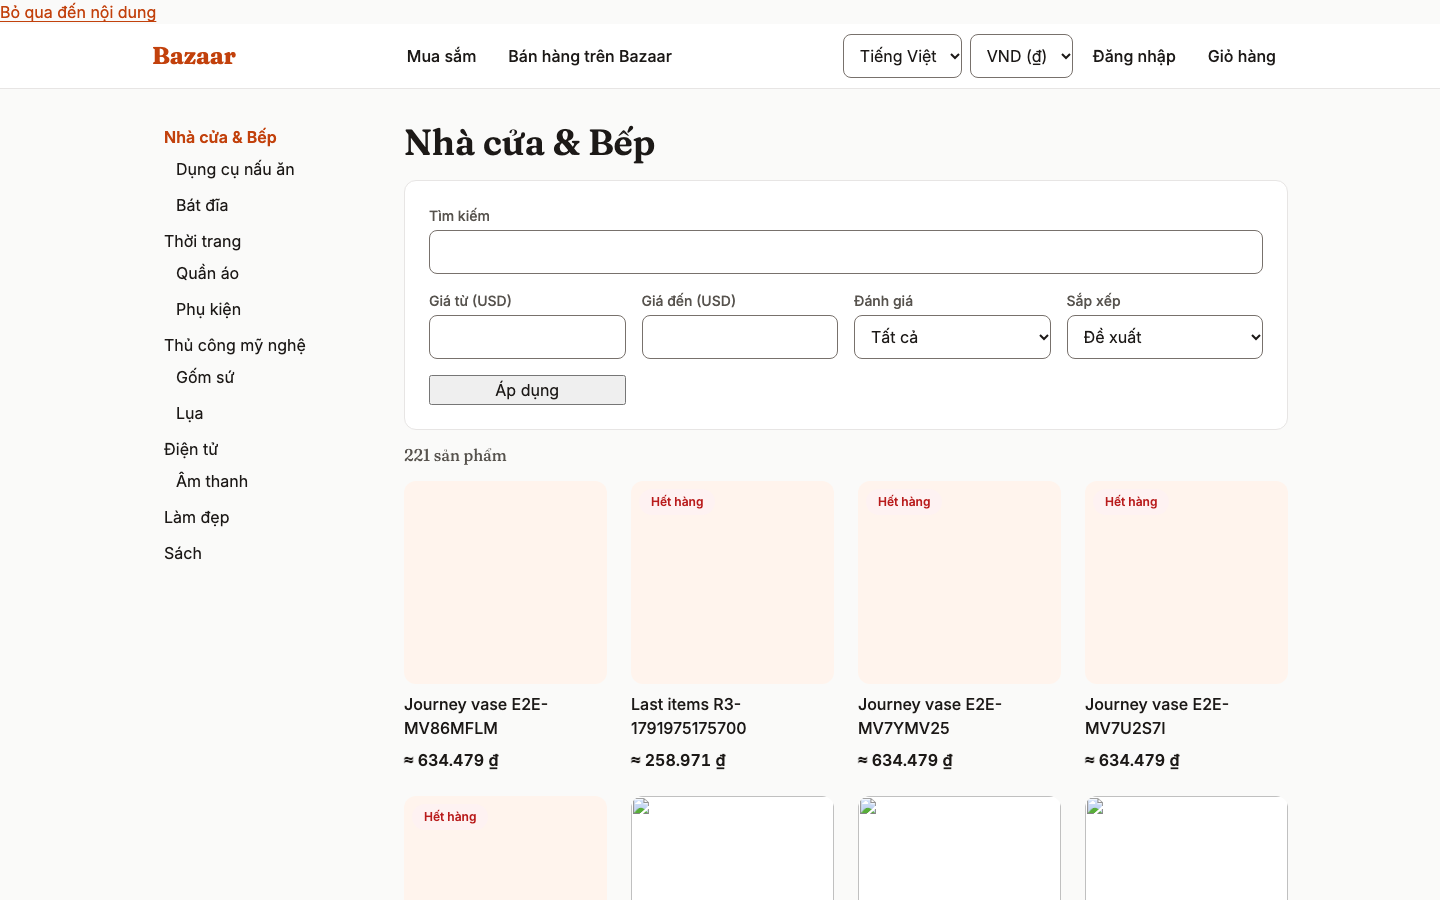
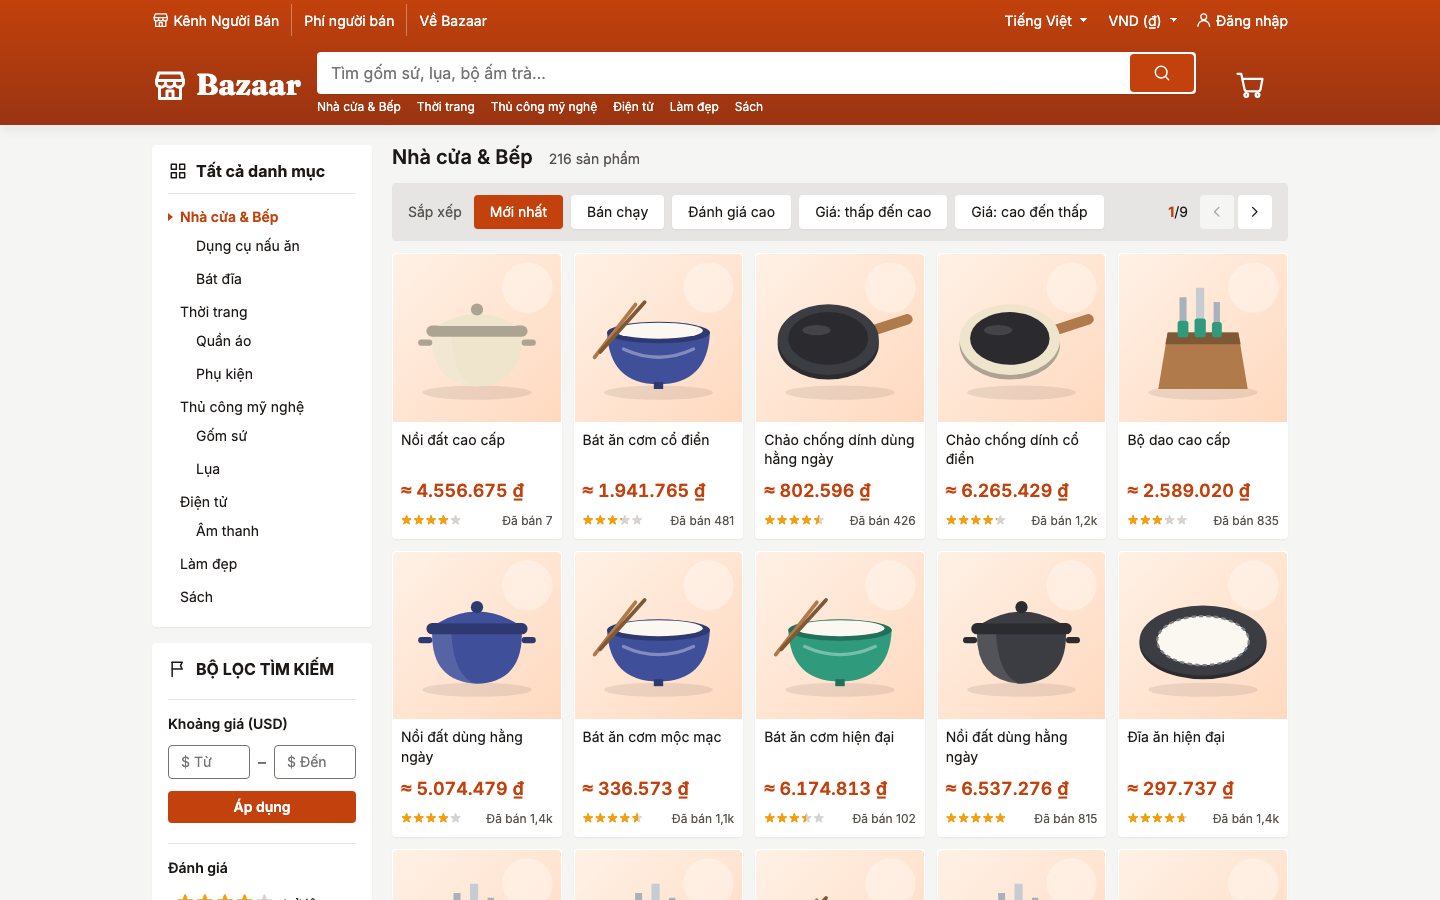
fix(repo): visual qa of the marketplace ui [BZ-092]
- Home renders per request from a feed cached for 2 minutes: a prerendered home was built without
  the catalog (image builds have no gateway) and showed no products after each deploy. ADR 0002
  records the change; info pages stay SSG.
- Contrast: header hover text saffron-50 (4.79:1), rating stars amber-600 (3.19:1, graphics);
  design-system.md lists the new tokens and ratios, check-tokens passes.
- Lighthouse on /en, /vi, /en/pricing: performance 0.95, accessibility 1, best practices 1,
  SEO 0.92 → 1 after a descriptive "more top-rated products" link.
- Admin filter bars use the shared controls; the moderation journey waits for its page (the new
  dashboard "Orders by status" region also matched getByLabel('Status')).
- README screenshots retaken on staging; the tour captions describe the new home.

diff --git a/frontend-web/src/api/home.server.ts b/frontend-web/src/api/home.server.ts
@@ -1,27 +1,25 @@
 import 'server-only';
 
-import { PHASE_PRODUCTION_BUILD } from 'next/constants';
+import { unstable_cache } from 'next/cache';
 
 import { ProductSort } from '@/api/catalog.schema';
-import { serverEnv } from '@/config/env.server';
-import { HOME_DISCOVER_COUNT, HOME_TOP_SELLERS_COUNT } from '@/constants/catalog.constant';
+import {
+  HOME_DISCOVER_COUNT,
+  HOME_FEED_REVALIDATE_SECONDS,
+  HOME_TOP_SELLERS_COUNT,
+} from '@/constants/catalog.constant';
 import type { HomeFeed } from '@/interfaces/home.interface';
 
 import { listCategories, listProducts } from './catalog.server';
 
-/**
- * Rows of the home page. Image builds have no gateway, so the build renders the page without
- * products (null) and the first visit after revalidation fills it. Later failures throw, so ISR
- * keeps serving the last good page instead of caching an empty one.
- */
-export const getHomeFeed = async (): Promise<HomeFeed | null> => {
+/** Throws when the catalog cannot answer, so a failure is never cached. */
+const loadHomeFeed = async (): Promise<HomeFeed> => {
   const [topSales, discover, categories] = await Promise.all([
     listProducts({ sort: ProductSort.best_selling, pageSize: HOME_TOP_SELLERS_COUNT }),
     listProducts({ sort: ProductSort.rating, pageSize: HOME_DISCOVER_COUNT }),
     listCategories(),
   ]);
   if (topSales.data === null || discover.data === null) {
-    if (serverEnv.NEXT_PHASE === PHASE_PRODUCTION_BUILD) return null;
     throw new Error(`Home feed unavailable: ${topSales.errorCode ?? discover.errorCode}`);
   }
   const flat = categories.flatMap((category) => [category, ...category.children]);
@@ -39,4 +37,20 @@ export const getHomeFeed = async (): Promise<HomeFeed | null> => {
       imageUrl: covers[index]?.data?.items[0]?.imageUrl ?? null,
     })),
   };
+};
+
+const cachedHomeFeed = unstable_cache(loadHomeFeed, ['home-feed'], {
+  revalidate: HOME_FEED_REVALIDATE_SECONDS,
+});
+
+/**
+ * Rows of the home page, cached for 2 minutes and refreshed in the background. Null only when
+ * the catalog is down and nothing is cached yet (the page then shows a short notice).
+ */
+export const getHomeFeed = async (): Promise<HomeFeed | null> => {
+  try {
+    return await cachedHomeFeed();
+  } catch {
+    return null;
+  }
 };

diff --git a/e2e/tests/admin.spec.ts b/e2e/tests/admin.spec.ts
@@ -33,7 +33,7 @@ test('an admin approves a new seller application', async ({ page }) => {
   await application.getByRole('button', { name: 'Approve' }).click();
   await expect(application).toBeHidden();
 
-  await page.getByLabel('Status').selectOption('APPROVED');
+  await page.getByRole('combobox', { name: 'Status' }).selectOption('APPROVED');
   await expect(page.getByRole('listitem').filter({ hasText: shopName })).toBeVisible();
 });
 
@@ -59,7 +59,9 @@ test('an admin hides a product with a reason, then restores it', async ({ page }
 
   await signIn(page, ADMIN);
   await page.getByRole('link', { name: 'Moderation' }).click();
-  await page.getByLabel('Status').selectOption('PUBLISHED');
+  // The dashboard also has a "status" region: wait for the moderation page itself.
+  await expect(page.getByRole('heading', { name: 'Product moderation' })).toBeVisible();
+  await page.getByRole('combobox', { name: 'Status' }).selectOption('PUBLISHED');
   await page.getByLabel('Title contains').fill(sku);
   await page.getByRole('button', { name: 'Apply' }).click();
 
@@ -68,7 +70,7 @@ test('an admin hides a product with a reason, then restores it', async ({ page }
   await card.getByLabel('Reason').fill('Journey test: checking moderation');
   await card.getByRole('button', { name: 'Hide' }).click();
 
-  await page.getByLabel('Status').selectOption('HIDDEN');
+  await page.getByRole('combobox', { name: 'Status' }).selectOption('HIDDEN');
   await expect(card.getByText('Hidden: Journey test: checking moderation')).toBeVisible();
   await card.getByRole('button', { name: 'Restore' }).click();
   await expect(card).toHaveCount(0);

diff --git a/frontend-admin/src/routes/platform/EventsPage.tsx b/frontend-admin/src/routes/platform/EventsPage.tsx
@@ -41,10 +41,14 @@ export const EventsPage = (): ReactElement => {
   return (
     <main id="main" className="page container">
       <h1>{t('events.title')}</h1>
-      <form className="platform-list__filter" onSubmit={apply}>
+      <form className="page__toolbar platform-list__toolbar" onSubmit={apply}>
         <label className="platform-list__filter">
           {t('events.type')}
-          <select value={chosenType} onChange={(event) => setChosenType(event.target.value)}>
+          <select
+            className="select platform-list__control"
+            value={chosenType}
+            onChange={(event) => setChosenType(event.target.value)}
+          >
             <option value="">{t('events.allTypes')}</option>
             {Object.values(EventType).map((value) => (
               <option key={value} value={value}>
@@ -55,7 +59,11 @@ export const EventsPage = (): ReactElement => {
         </label>
         <label className="platform-list__filter">
           {t('events.aggregate')}
-          <input value={aggregate} onChange={(event) => setAggregate(event.target.value)} />
+          <input
+            className="input platform-list__control"
+            value={aggregate}
+            onChange={(event) => setAggregate(event.target.value)}
+          />
         </label>
         <Button type="submit" variant={ButtonVariant.Secondary}>
           {t('moderation.apply')}

diff --git a/frontend-admin/src/routes/platform/ModerationPage.tsx b/frontend-admin/src/routes/platform/ModerationPage.tsx
@@ -46,14 +46,20 @@ export const ModerationPage = (): ReactElement => {
   return (
     <main id="main" className="page container">
       <h1>{t('moderation.title')}</h1>
-      <form className="platform-list__filter" onSubmit={apply}>
+      <form className="page__toolbar platform-list__toolbar" onSubmit={apply}>
         <label className="platform-list__filter">
           {t('moderation.search')}
-          <input type="search" value={search} onChange={(event) => setSearch(event.target.value)} />
+          <input
+            className="input platform-list__control"
+            type="search"
+            value={search}
+            onChange={(event) => setSearch(event.target.value)}
+          />
         </label>
         <label className="platform-list__filter">
           {t('products.status')}
           <select
+            className="select platform-list__control"
             value={status ?? ''}
             onChange={(event) => {
               const next = new URLSearchParams(params);

diff --git a/frontend-admin/src/styles/tokens/colors.css b/frontend-admin/src/styles/tokens/colors.css
@@ -91,9 +91,9 @@
   --color-brand-from: var(--color-saffron-600);
   --color-brand-to: var(--color-saffron-700);
   --color-on-brand: #fff;
-  --color-on-brand-muted: var(--color-saffron-100);
+  --color-on-brand-muted: var(--color-saffron-50);
   --color-price: var(--color-saffron-600);
-  --color-star: var(--color-amber-500);
+  --color-star: var(--color-amber-600);
   --color-star-empty: var(--color-ink-300);
 
   color-scheme: light;
@@ -127,7 +127,10 @@
   --color-focus-ring: var(--color-saffron-400);
   --color-brand-from: var(--color-saffron-800);
   --color-brand-to: var(--color-saffron-900);
+  --color-on-brand: #fff;
+  --color-on-brand-muted: var(--color-saffron-50);
   --color-price: var(--color-saffron-300);
+  --color-star: var(--color-amber-600);
   --color-star-empty: var(--color-ink-600);
 
   color-scheme: dark;

diff --git a/frontend-web/src/styles/tokens/colors.css b/frontend-web/src/styles/tokens/colors.css
@@ -91,9 +91,9 @@
   --color-brand-from: var(--color-saffron-600);
   --color-brand-to: var(--color-saffron-700);
   --color-on-brand: #fff;
-  --color-on-brand-muted: var(--color-saffron-100);
+  --color-on-brand-muted: var(--color-saffron-50);
   --color-price: var(--color-saffron-600);
-  --color-star: var(--color-amber-500);
+  --color-star: var(--color-amber-600);
   --color-star-empty: var(--color-ink-300);
 
   color-scheme: light;
@@ -127,7 +127,10 @@
   --color-focus-ring: var(--color-saffron-400);
   --color-brand-from: var(--color-saffron-800);
   --color-brand-to: var(--color-saffron-900);
+  --color-on-brand: #fff;
+  --color-on-brand-muted: var(--color-saffron-50);
   --color-price: var(--color-saffron-300);
+  --color-star: var(--color-amber-600);
   --color-star-empty: var(--color-ink-600);
 
   color-scheme: dark;

diff --git a/frontend-web/src/app/[locale]/page.tsx b/frontend-web/src/app/[locale]/page.tsx
@@ -9,10 +9,10 @@ import { ProductRow } from '@/features/home/components/ProductRow';
 import { pageLocale } from '@/i18n/page-locale';
 
 /**
- * ISR: the home page is cached and rebuilt in the background at most every 2 minutes, so best
- * sellers and new ratings show up without a deploy. Must be a literal: Next reads it at build time.
+ * Rendered per request from a cached feed (api/home.server.ts): a prerendered page would be built
+ * without the catalog (image builds have no gateway) and show no products until revalidated.
  */
-export const revalidate = 120;
+export const dynamic = 'force-dynamic';
 
 const HomePage = async ({ params }: PageProps<'/[locale]'>): Promise<ReactElement> => {
   const locale = await pageLocale(params);

diff --git a/frontend-admin/src/routes/platform/SellersPage.tsx b/frontend-admin/src/routes/platform/SellersPage.tsx
@@ -28,9 +28,13 @@ export const SellersPage = (): ReactElement => {
   return (
     <main id="main" className="page container">
       <h1>{t('sellers.title')}</h1>
-      <label className="platform-list__filter">
+      <label className="page__toolbar platform-list__filter">
         {t('sellers.status')}
-        <select value={status} onChange={(event) => setParams({ status: event.target.value })}>
+        <select
+          className="select platform-list__control"
+          value={status}
+          onChange={(event) => setParams({ status: event.target.value })}
+        >
           {Object.values(SellerApplicationStatus).map((value) => (
             <option key={value} value={value}>
               {t(`status.${value}`)}

diff --git a/frontend-web/src/constants/catalog.constant.ts b/frontend-web/src/constants/catalog.constant.ts
@@ -24,6 +24,8 @@ export const HEADER_CATEGORY_SLUGS = [
 /** Home page rows. */
 export const HOME_TOP_SELLERS_COUNT = 6;
 export const HOME_DISCOVER_COUNT = 24;
+/** Home rows are cached this long (seconds) and refreshed in the background. */
+export const HOME_FEED_REVALIDATE_SECONDS = 120;
 export const PRODUCT_CARD_SIZES =
   '(min-width: 1280px) 200px, (min-width: 1024px) 17vw, (min-width: 640px) 25vw, 50vw';
 /** Rating filter links in the listing sidebar ("4★ & up"…). */

diff --git a/e2e/screenshots/capture.spec.ts b/e2e/screenshots/capture.spec.ts
@@ -43,7 +43,8 @@ test('admin site', async ({ page }) => {
     .getByRole('navigation', { name: 'Main' })
     .getByRole('link', { name: 'Moderation' })
     .click();
-  await expect(page.getByRole('listitem').first()).toBeVisible();
+  await expect(page).toHaveURL(/\/platform\/products/);
+  await expect(page.locator('main').getByRole('listitem').first()).toBeVisible();
   await page.screenshot(shot('admin-platform-moderation'));
 });
 

diff --git a/frontend-admin/src/components/ReasonForm/ReasonForm.tsx b/frontend-admin/src/components/ReasonForm/ReasonForm.tsx
@@ -34,7 +34,7 @@ export const ReasonForm = ({ actionLabel, isBusy, onConfirm }: ReasonFormProps):
       <label className="reason-form__label">
         {t('reason.label')}
         <input
-          className="reason-form__input"
+          className="input reason-form__input"
           value={reason}
           minLength={3}
           maxLength={500}

diff --git a/frontend-web/src/config/env.server.ts b/frontend-web/src/config/env.server.ts
@@ -11,8 +11,6 @@ const serverEnvSchema = z.object({
     (value) => (value === '' ? undefined : value),
     z.string().min(32).optional(),
   ),
-  /** Set by Next itself; 'phase-production-build' while `next build` prerenders pages. */
-  NEXT_PHASE: z.string().optional(),
 });
 
 type ServerEnv = z.infer<typeof serverEnvSchema>;
